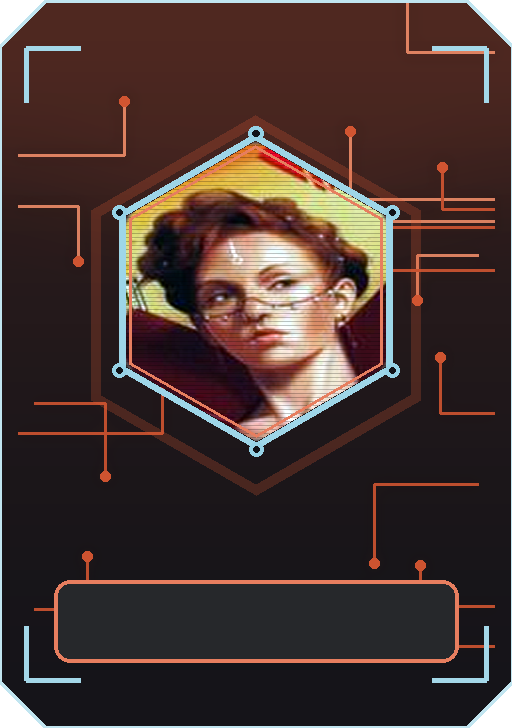
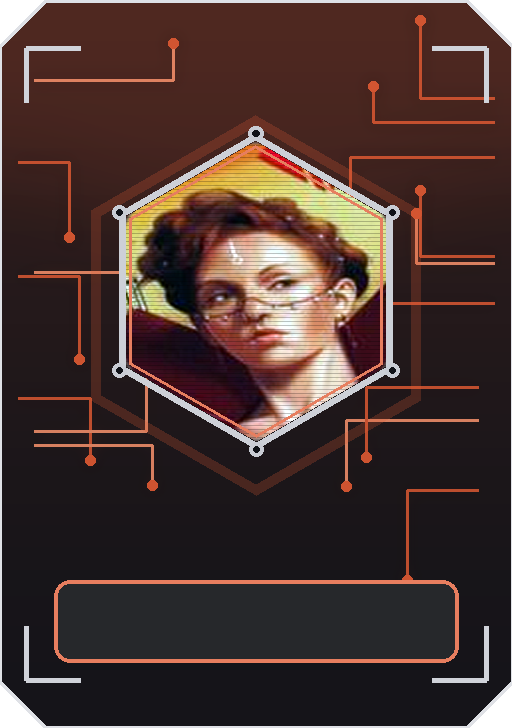
Revert "feat(theme): cyborg neon look + glowing Court count"
This reverts commit 3e548619cf7af6d9831f373ff41dea6f859c3760.

diff --git a/src/theme.ts b/src/theme.ts
@@ -1,6 +1,5 @@
 /**
- * Coup theme — cyborg-noir palette: near-black chrome surfaces with neon
- * cyan accents (keys keep the historical 'gold' names), plus a
+ * Coup theme — dystopian dark palette with antique gold accents, plus a
  * signature color per character (mirroring the physical game's role icons:
  * Duke's crimson star, Captain's blue chevrons, Assassin's black skull,
  * Contessa's scarlet crest, Ambassador's olive-gold exchange marks).
@@ -24,39 +23,39 @@ export const theme = {
   colors: {
     // Accent — polished silver, matching the game's coin token.
     // (Keys keep the historical 'gold' names to avoid a mass rename.)
-    gold: '#22d3ee',
-    goldDark: '#0e7490',
-    goldLight: '#7ef0ff',
-    inkOnGold: '#04141a',
+    gold: '#c9ccd4',
+    goldDark: '#7d828e',
+    goldLight: '#e9ebf0',
+    inkOnGold: '#14161a',
 
     // Neutrals (cool near-black — lets the character colors breathe)
-    background: '#080b11',
-    surface: '#111721',
-    surfaceElevated: '#161e2b',
-    surfaceHover: '#1e2938',
-    border: 'rgba(126, 240, 255, 0.14)',
-    borderBright: 'rgba(126, 240, 255, 0.32)',
+    background: '#0e1014',
+    surface: '#171a20',
+    surfaceElevated: '#1e222b',
+    surfaceHover: '#272c37',
+    border: 'rgba(200, 210, 230, 0.10)',
+    borderBright: 'rgba(200, 210, 230, 0.22)',
 
     // Text
-    ink: '#eaf6ff',
-    inkSoft: '#9fb3c8',
-    inkFaint: '#5d6b7d',
+    ink: '#eef0f4',
+    inkSoft: '#a7adba',
+    inkFaint: '#646a76',
 
     // Semantic
-    success: '#3ddc97',
-    danger: '#ff3d68',
-    warning: '#ffb02e',
+    success: '#5da860',
+    danger: '#d9534f',
+    warning: '#e8a33d',
 
     // Tab bar
     tabBar: 'rgba(12, 14, 18, 0.97)',
-    tabActive: '#22d3ee',
+    tabActive: '#c9ccd4',
     tabInactive: '#646a76',
   },
   role: roleColors,
   gradients: {
-    gold: ['#0e7490', '#22d3ee'] as [string, string],
-    table: ['#0c1219', '#080b11'] as [string, string],
-    card: ['#161e2b', '#111721'] as [string, string],
+    gold: ['#7d828e', '#c9ccd4'] as [string, string],
+    table: ['#14171d', '#0e1014'] as [string, string],
+    card: ['#1e222b', '#171a20'] as [string, string],
   },
   radius: { xs: 6, sm: 10, md: 16, lg: 20, xl: 28, pill: 999 },
   spacing: { xs: 4, sm: 8, md: 16, lg: 24, xl: 32, xxl: 48 },
@@ -80,11 +79,11 @@ export const theme = {
       elevation: 4,
     },
     goldGlow: {
-      shadowColor: '#22d3ee',
-      shadowOffset: { width: 0, height: 0 },
-      shadowOpacity: 0.75,
-      shadowRadius: 16,
-      elevation: 8,
+      shadowColor: '#c9ccd4',
+      shadowOffset: { width: 0, height: 4 },
+      shadowOpacity: 0.3,
+      shadowRadius: 14,
+      elevation: 6,
     },
   },
   motion: {

diff --git a/src/screens/GameScreen.tsx b/src/screens/GameScreen.tsx
@@ -1495,11 +1495,8 @@ const makeStyles = (theme: Theme) =>
     tableRimOuter: {
       flex: 1,
       borderRadius: 96,
-      backgroundColor: '#16222e',
-      borderWidth: 1.5,
-      borderColor: 'rgba(34, 211, 238, 0.55)',
+      backgroundColor: '#3a3f4a',
       padding: 5,
-      ...theme.shadow.goldGlow,
     },
     felt: {
       flex: 1,
@@ -1519,7 +1516,7 @@ const makeStyles = (theme: Theme) =>
       bottom: 14,
       borderRadius: 80,
       borderWidth: 1.5,
-      borderColor: 'rgba(34, 211, 238, 0.30)',
+      borderColor: 'rgba(255,255,255,0.10)',
     },
     tableCenter: {
       position: 'absolute',
@@ -1569,24 +1566,20 @@ const makeStyles = (theme: Theme) =>
       borderColor: theme.colors.goldDark,
     },
     courtCountChip: {
-      minWidth: 34,
-      paddingHorizontal: 8,
+      minWidth: 32,
+      paddingHorizontal: 7,
       paddingVertical: 1,
       borderRadius: theme.radius.pill,
-      borderWidth: 1.5,
-      borderColor: theme.colors.gold,
+      borderWidth: 1,
+      borderColor: 'rgba(233,235,240,0.3)',
       alignItems: 'center',
       justifyContent: 'center',
       overflow: 'hidden',
-      ...theme.shadow.goldGlow,
     },
     courtCount: {
-      fontSize: 17,
+      fontSize: 16,
       fontFamily: latinFont('bold'),
-      color: '#7ef0ff',
-      textShadowColor: '#22d3ee',
-      textShadowOffset: { width: 0, height: 0 },
-      textShadowRadius: 8,
+      color: '#ffffff',
     },
     tableSeat: {
       position: 'absolute',
@@ -1683,7 +1676,6 @@ const makeStyles = (theme: Theme) =>
     seatNameChipTurn: {
       backgroundColor: theme.colors.gold,
       borderColor: theme.colors.goldLight,
-      ...theme.shadow.goldGlow,
     },
     seatNameTextTurn: {
       color: theme.colors.inkOnGold,

diff --git a/src/components/Coin.tsx b/src/components/Coin.tsx
@@ -61,7 +61,7 @@ const makeStyles = (theme: Theme) =>
     chip: {
       borderRadius: theme.radius.pill,
       borderWidth: 1,
-      borderColor: 'rgba(34, 211, 238, 0.6)',
+      borderColor: 'rgba(233,235,240,0.28)',
       paddingHorizontal: 7,
       paddingVertical: 1,
       gap: 4,
@@ -75,9 +75,6 @@ const makeStyles = (theme: Theme) =>
       textShadowRadius: 3,
     },
     amountChip: {
-      color: '#7ef0ff',
-      textShadowColor: '#22d3ee',
-      textShadowOffset: { width: 0, height: 0 },
-      textShadowRadius: 7,
+      color: '#ffffff',
     },
   });

diff --git a/scripts/gen-assets.py b/scripts/gen-assets.py
@@ -12,10 +12,10 @@ from PIL import Image, ImageDraw, ImageFont, ImageFilter
 OUT = os.path.join(os.path.dirname(__file__), "..", "assets")
 os.makedirs(OUT, exist_ok=True)
 
-BG = (8, 11, 17, 255)           # #080b11 cyborg near-black
-GOLD = (34, 211, 238)            # neon cyan accent
-GOLD_DARK = (14, 116, 144)
-GOLD_LIGHT = (126, 240, 255)
+BG = (14, 16, 20, 255)          # #0e1014 cool near-black
+GOLD = (201, 204, 212)           # main gold
+GOLD_DARK = (125, 130, 142)
+GOLD_LIGHT = (233, 235, 240)
 INK = (18, 20, 26)
 
 

diff --git a/scripts/gen-cards.py b/scripts/gen-cards.py
@@ -11,11 +11,10 @@ OUT = os.path.join(os.path.dirname(__file__), "..", "assets", "cards")
 os.makedirs(OUT, exist_ok=True)
 
 W, H = 704, 1000
-# neon-cyborg palette: cyan circuitry on chrome
-STEEL = (34, 170, 200)
-STEEL_BRIGHT = (126, 240, 255)
-SILVER = (150, 210, 230)
-BG = (8, 11, 17)
+STEEL = (120, 150, 190)
+STEEL_BRIGHT = (170, 200, 235)
+SILVER = (201, 204, 212)
+BG = (13, 15, 20)
 
 
 def circuit_layer(seed, n_traces, box, thickness=3, pad_r=5):
